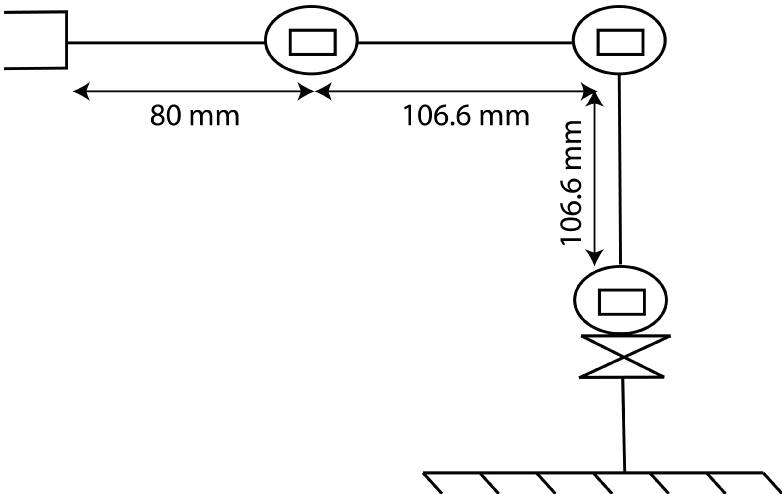
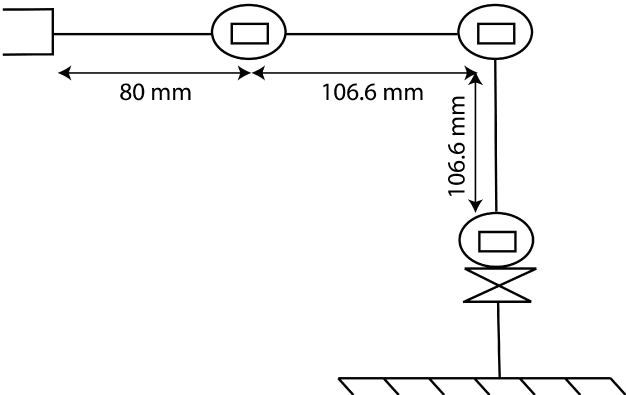
Actualización MATLAB Y algunas funciones + ReadMe

diff --git a/px_robot/matlab/phantom.m b/px_robot/matlab/phantom.m
@@ -1,0 +1,47 @@
+l = [14.5, 10.7, 10.7, 9]; % Longitudes eslabones
+% Definicion del robot RTB
+L(1) = Link('revolute','alpha',pi/2,'a',0,   'd',l(1),'offset',0,   'qlim',[-3*pi/4 3*pi/4]);
+L(2) = Link('revolute','alpha',0,   'a',l(2),'d',0,   'offset',pi/2,'qlim',[-3*pi/4 3*pi/4]);
+L(3) = Link('revolute','alpha',0,   'a',l(3),'d',0,   'offset',0,   'qlim',[-3*pi/4 3*pi/4]);
+L(4) = Link('revolute','alpha',0,   'a',0,   'd',0,   'offset',0,   'qlim',[-3*pi/4 3*pi/4]);
+PhantomX = SerialLink(L,'name','Px');
+% roty(pi/2)*rotz(-pi/2)
+PhantomX.tool = [0 0 1 l(4); -1 0 0 0; 0 -1 0 0; 0 0 0 1];
+ws = [-50 50];
+% Graficar robot
+PhantomX.plot([0 0 0 0],'notiles','noname');
+hold on
+trplot(eye(4),'rgb','arrow','length',15,'frame','0')
+axis([repmat(ws,1,2) 0 60])
+%PhantomX.teach()
+%%
+q = zeros(1,4);
+M = eye(4);
+for i=1:PhantomX.n
+    M = M * L(i).A(q(i));
+    trplot(M,'rgb','arrow','frame',num2str(i),'length',15)
+end
+%%
+%%
+motorSvcClient = rossvcclient('/dynamixel_workbench/dynamixel_command'); %Creación de cliente de pose y posición
+motorCommandMsg = rosmessage(motorSvcClient); %Creación de mensaje
+%%
+control = true;
+disp("Press q for quit")
+while control
+    joint = input("Ingrese el número de junta a mover: ");
+    pos = input("Ingrese el valor de la posición en grados :  ");
+
+    motorCommandMsg.AddrName = "Goal_Position";
+    motorCommandMsg.Id = joint;
+    motorCommandMsg.Value = mapfun(pos,-135,135,0,1023);
+    call(motorSvcClient,motorCommandMsg);
+    q(joint) = pos;
+    PhantomX.plot((q*pi)/180,'notiles','noname');
+    hold on
+    trplot(eye(4),'rgb','arrow','length',15,'frame','0')
+    axis([repmat(ws,1,2) 0 60])
+
+end
+
+

diff --git a/px_robot/matlab/mapfun.m b/px_robot/matlab/mapfun.m
@@ -1,0 +1,30 @@
+% This function is a copy of the "map" function used in Arduino code.
+% It takes an input value mapped from a min and max possible value and
+% scales it to a desired output min and max.
+%
+% [output] = mapfun(value,fromLow,fromHigh,toLow,toHigh)
+% value: can be a scalar entry or a matrix of values
+% fromLow: lowest possible input value
+% fromHigh: highest possible input value
+% toLow: lowest desired output value
+% toHigh: highest possible output value
+% [output]: output matrix of same size as value
+% 
+% examples:
+% output = mapfun(-.3,-1,1,0,5)
+% output =
+%
+%    1.7500
+%
+% output = mapfun([-1 1 -.5 .5],-1,1,0,5)
+% output =
+%
+%         0    5.0000    1.2500    3.7500
+%
+% Created by David Coventry on 1/19/2017
+
+function output = mapfun(value,fromLow,fromHigh,toLow,toHigh)
+narginchk(5,5)
+nargoutchk(0,1)
+output = (value - fromLow) .* (toHigh - toLow) ./ (fromHigh - fromLow) + toLow;
+end

diff --git a/px_robot/matlab/dyna_server.m b/px_robot/matlab/dyna_server.m
@@ -1,0 +1,10 @@
+%%
+%rosinit; %Conexion con nodo maestro
+%%
+motorSvcClient = rossvcclient('/dynamixel_workbench/dynamixel_command'); %Creación de cliente de pose y posición
+motorCommandMsg = rosmessage(motorSvcClient); %Creación de mensaje
+%%
+motorCommandMsg.AddrName = "Goal_Position";
+motorCommandMsg.Id = 1;
+motorCommandMsg.Value = 0;
+call(motorSvcClient,motorCommandMsg);

diff --git a/px_robot/matlab/dyna_pub.m b/px_robot/matlab/dyna_pub.m
@@ -1,0 +1,9 @@
+%%
+%rosinit; %Conexión con nodo maestro, correr solo 1 una vez
+%%
+jstatesPub = rospublisher('/dynamixel_workbench/joint_states','sensor_msgs/JointState'); %Creación publicador
+jstatesMsg = rosmessage(jstatesPub); %Creación de mensaje
+%%
+jstatesMsg.Name = "waist"; %Valor del mensaje
+send(jstatesPub,jstatesMsg); %Envio
+pause(1)

diff --git a/px_robot/matlab/dyna_sub.m b/px_robot/matlab/dyna_sub.m
@@ -1,0 +1,8 @@
+%%
+%rosinit; %Conexion con nodo maestro
+%%
+jstatesSub = rossubscriber('/dynamixel_workbench/join_states'); %Creación subscriptor
+%%
+jstatesMsg = jstatesSub.LatestMessage; %Recibe el último mensaje
+jstatesMsg.Position
+%jstatesMsg = receive(velSub); % Otra opción

diff --git a/README.md b/README.md
@@ -1,3 +1,24 @@
 # robotica-lab2
+## 1. Diagrama del robot Phantom X y sus parámetros DH
+## 2. Conexión con ROS
+### Procedimiento
+1. Se realizó el script *mov_px.py* ubicado en *px_robot/scripts/* permite mover las juntas del robot de la siguiente forma:
+- La tecla 'w' permite seleccionar la siguiente junta: si se está en la junta 1 (waist) se pasa a la junta 2 (elbow).
+- La tecla 's' permite seleccionar la junta anterior.
+- La tecla 'a' lleva la junta seleccionada a su posición de home.
+- La tecla 'd' lleva la junta seleccionada a una posición deseada (ingresada por consola), la cual está en enteros donde 0 es el valor mínimo y 1023 la posición máxima del motor.
 
-![Diagrama](diagrama-1.png)
+2. Para lograr la lectura de las teclas se crea la función getKey() tomada de [5].
+3. Se creó la función `actions()` la cual decide la acción a realizar según la tecla oprimida.
+4. Para el movimiento de las juntas se importó la función `jointCommand()` del script *jointSrv.py* el cual permite llamar al servicio *dynamixel_command*. De esta forma se puede usar `jointCommand()` para
+###Análisis
+## 3. Uso del TCP
+### Procedimiento
+### Análisis
+
+## 4. MATLAB + ROS + TCP
+### Procedimiento
+### Análisis
+## Conclusiones
+## Referencias
+[5] [Python for fun: Get Key Pressed in Python](http://python4fun.blogspot.com/2008/06/get-key-press-in-python.html)
